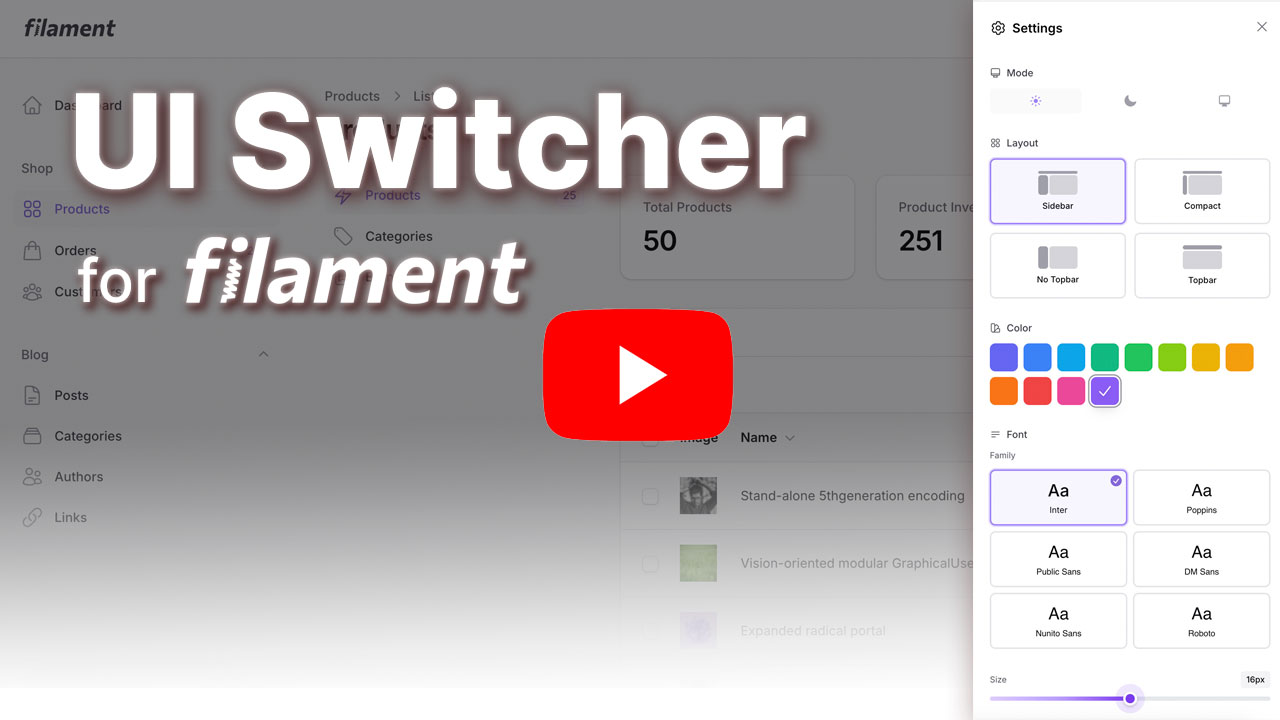
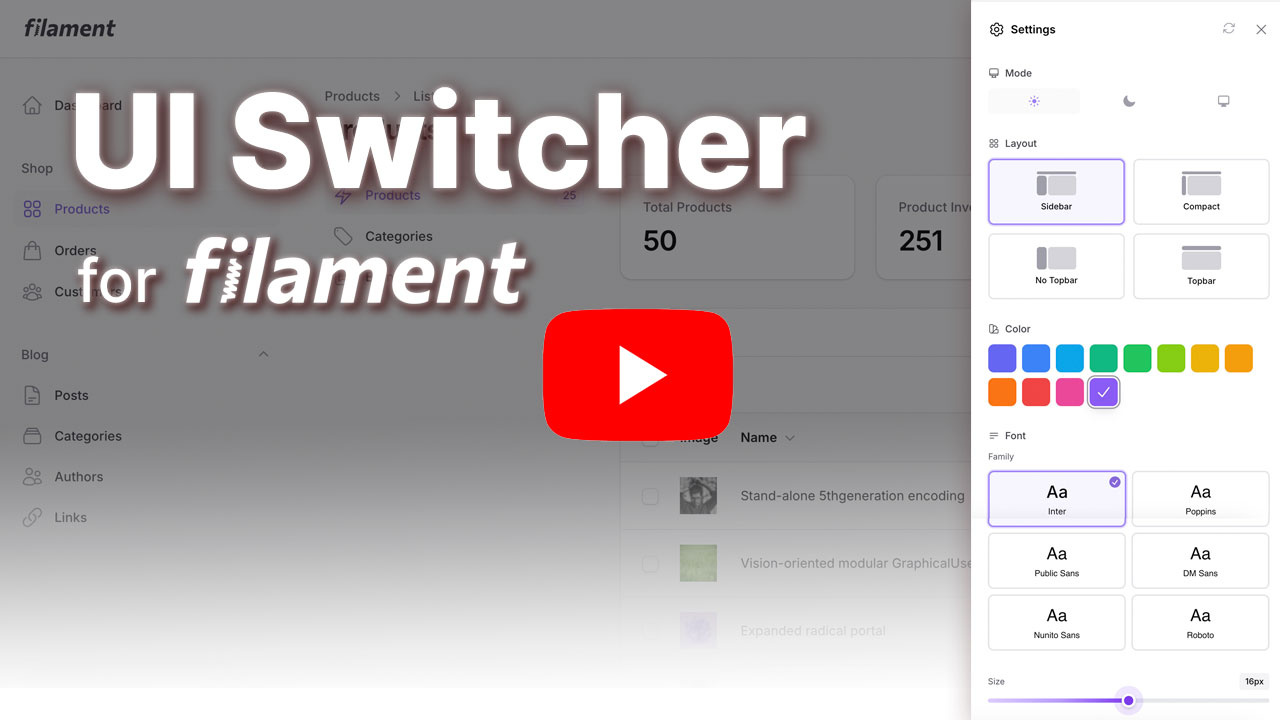
Add reset to default

diff --git a/resources/views/livewire/ui-switcher.blade.php b/resources/views/livewire/ui-switcher.blade.php
@@ -9,7 +9,13 @@
             }, 400);
         }
      }"
-     x-on:reload-page.window="closeAndReload()">
+     x-on:reload-page.window="closeAndReload()"
+     x-on:reset-theme-to-default.window="
+        // Reset theme to system default
+        localStorage.removeItem('theme');
+        // Dispatch theme-changed event to update the UI
+        window.dispatchEvent(new CustomEvent('theme-changed', { detail: 'system' }));
+     ">
 
     {{-- Cog icon in topbar --}}
     <button
@@ -34,13 +40,35 @@
         x-on:close-modal.window="if ($event.detail.id === 'ui-switcher-modal') { $wire.set('open', false) }"
         x-on:modal-closed.window="if ($event.detail.id === 'ui-switcher-modal') { $wire.set('open', false) }"
     >
-        <x-slot name="heading">
+        <x-slot name="header">
+            {{-- Reset Button --}}
+            <button
+                wire:click="resetToDefaults"
+                wire:loading.class="opacity-50 cursor-wait"
+                wire:target="resetToDefaults"
+                type="button"
+                class="fi-icon-btn absolute end-[4.5rem] top-6 flex items-center justify-center text-gray-400 hover:text-gray-500 focus:outline-none dark:text-gray-500 dark:hover:text-gray-400 transition"
+                x-tooltip="{
+                    content: '{{ __('filament-ui-switcher::filament-ui-switcher.reset.button') }}',
+                    theme: $store.theme,
+                }"
+                aria-label="{{ __('filament-ui-switcher::filament-ui-switcher.reset.aria_label') }}"
+            >
+                <x-filament::icon
+                    icon="heroicon-o-arrow-path"
+                    class="h-5 w-5"
+                />
+            </button>
+
+            {{-- Header content --}}
             <div class="flex items-center gap-2">
                 <x-filament::icon
                     icon="heroicon-o-cog-6-tooth"
                     class="h-6 w-6"
                 />
-                <span class="text-lg font-semibold">{{ __('filament-ui-switcher::filament-ui-switcher.modal.heading') }}</span>
+                <h2 class="fi-modal-heading">
+                    {{ __('filament-ui-switcher::filament-ui-switcher.modal.heading') }}
+                </h2>
             </div>
         </x-slot>
 

diff --git a/src/Livewire/UiPreferences.php b/src/Livewire/UiPreferences.php
@@ -90,6 +90,33 @@ class UiPreferences extends Component
     }
 
     /**
+     * Reset all preferences to default values from config
+     */
+    public function resetToDefaults(): void
+    {
+        $defaults = config('ui-switcher.defaults', []);
+
+        // Reset to config defaults
+        $this->font = $defaults['font'] ?? 'Inter';
+        $this->layout = $defaults['layout'] ?? 'sidebar';
+        $this->primaryColor = $defaults['color'] ?? '#6366f1';
+        $this->fontSize = $defaults['font_size'] ?? 16;
+        $this->density = $defaults['density'] ?? 'default';
+
+        // Save all preferences
+        UiPreferenceManager::set('ui.font', $this->font);
+        UiPreferenceManager::set('ui.layout', $this->layout);
+        UiPreferenceManager::set('ui.color', $this->primaryColor);
+        UiPreferenceManager::set('ui.font_size', $this->fontSize);
+        UiPreferenceManager::set('ui.density', $this->density);
+
+        // Dispatch event to reset theme/mode in localStorage (handled by JavaScript)
+        $this->dispatch('reset-theme-to-default');
+
+        $this->dispatch('reload-page');
+    }
+
+    /**
      * Get available fonts from config
      */
     public function getAvailableFontsProperty(): array

diff --git a/resources/lang/en/filament-ui-switcher.php b/resources/lang/en/filament-ui-switcher.php
@@ -7,6 +7,10 @@ return [
 
     'loading.message' => 'Applying changes...',
 
+    'reset.button' => 'Reset all',
+    'reset.aria_label' => 'Reset all settings to default',
+    'reset.tooltip' => 'Reset all settings to default',
+
     'mode.heading' => 'Mode',
 
     'layout.heading' => 'Layout',

diff --git a/README.md b/README.md
@@ -15,6 +15,7 @@ Switch between the available Filament layouts with a customizable UI settings sl
 - **Font Size** - Adjust base font size (12-20px)
 - **Layout** - Switch between Sidebar, Compact Sidebar, and Topbar navigation
 - **Mode (optional)** - Display Filament's mode switcher (dark, light, and system)
+- **Reset All** - Quickly reset all customizations to default values with a single click
 
 **Storage Options:**
 - **Session Storage** (default) - Preferences stored in user session
@@ -191,6 +192,20 @@ That's it! A ⚙️ settings icon will now appear in your topbar.
 ![Filament UI Switcher Screenshot](https://raw.githubusercontent.com/andreia/filament-ui-switcher/main/docs/screenshot.png)
 
 ![Filament UI Switcher Modal](https://raw.githubusercontent.com/andreia/filament-ui-switcher/main/docs/ui_switcher_modal.jpg)
+
+## Usage
+
+### Resetting Preferences
+
+The settings modal includes a reset button in the header that allows users to quickly restore all customizations to their default values. When clicked, it will reset:
+
+- Primary color
+- Font family
+- Font size  
+- Layout
+- Mode (dark/light/system)
+
+All preferences will be restored to the values defined in your `config/ui-switcher.php` file under the `defaults` key.
 
 ## Configuration
 